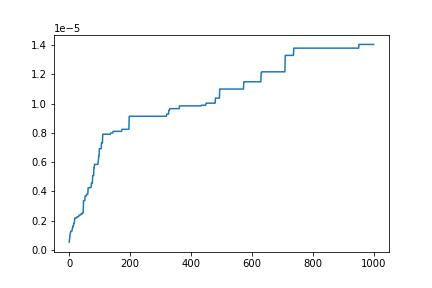
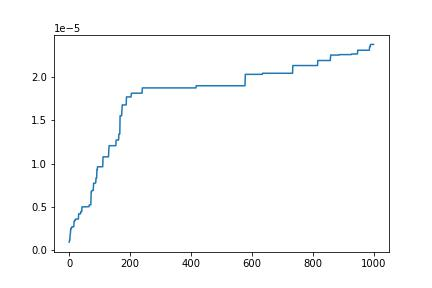
more changes

diff --git a/run_ga.py b/run_ga.py
@@ -28,6 +28,7 @@ parser.add_argument('--ii', dest='ii', type=int,
     default=None, help='')
 args = parser.parse_args()
 shift = args.ii
+shift=0
 
 # This function keeps track of the generation number + best fitness
 